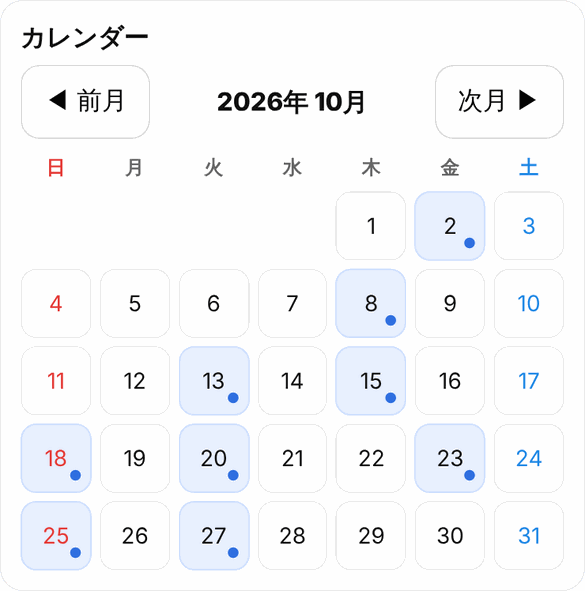
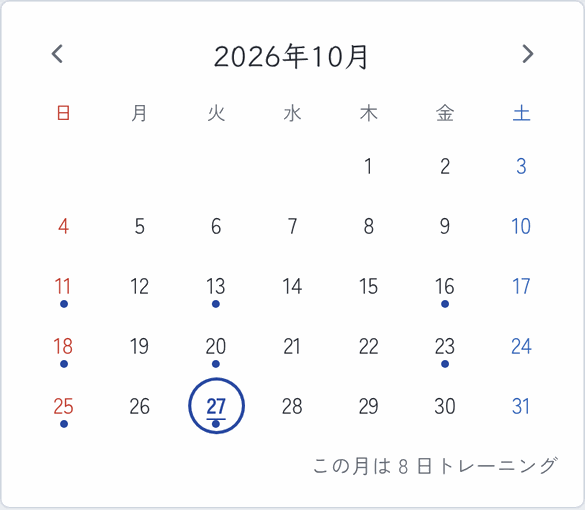
READMEを新しいデザインに合わせて更新し、スクリーンショットを撮り直し
Claude-Session: https://claude.ai/code/session_01LAmFCGEKoDBVA6vnKAuoa2

diff --git a/README.md b/README.md
@@ -1,48 +1,67 @@
-# Training Tracker
+# トレーニングノート
 
-筋トレの記録をつけて、日付やカレンダーから振り返れるWebアプリです。
-よくやるメニューを「プリセット」として登録しておけば、ボタン1つでまとめて記録できます。
+筋トレの記録を、**紙のトレーニングノート**のように1日1ページでつけられるWebアプリです。
+よくやる種目の組み合わせを「メニュー」として登録しておけば、ボタン1つでまとめて書き込めます。
 
-**公開URL：** [training-tracker-three.vercel.app](https://training-tracker-three.vercel.app)（ログイン不要ですぐ使えます）
+**公開URL：** [training-tracker-three.vercel.app](https://training-tracker-three.vercel.app)（ログイン不要。初めて開いたときは「見本の記録を入れる」で中身を試せます）
 
 <p>
-  <img src="docs/screenshots/pc-top.png" alt="トレーニング追加（PC）" width="64%">
-  <img src="docs/screenshots/sp-list.png" alt="トレーニング一覧（スマホ）" width="23%">
+  <img src="docs/screenshots/pc-page.png" alt="1日のページ（PC）" width="64%">
+  <img src="docs/screenshots/sp-page.png" alt="1日のページ（スマホ）" width="23%">
 </p>
 
-> スクリーンショットはサンプルデータで撮影しています。
+> スクリーンショットは見本の記録で撮影しています。
+
+---
+
+## デザインのコンセプト
+
+ジムでトレーニングを記録する人が使う、紙のノートを土台にしました。
+
+- **1日が1ページ**：罫線の上に記録が並び、ページの左には赤い余白線。ページの下が「書き込み欄」で、開いている日に記録を書き込みます
+- **手書き風の文字**：日付と記録は、鉛筆で書いたような書体（Klee One）で表示しています
+- **ボールペンの青**：ボタンや選んでいる日など、操作に関わるものだけを青にしています。カレンダーで表示中の日には、ペンで丸をつけたような印が付きます
+- **1日の合計**：ページの最後に、種目数・セット数・総重量（重さ × 回数 × セット）を書き添えます
+
+| 色 | 用途 |
+|---|---|
+| `#E9ECF0` | 背景（机） |
+| `#D6E2EF` | 罫線 |
+| `#E7A3A3` | 余白線 |
+| `#2747A0` ボールペンの青 | ボタン・選択中の日・合計 |
+| `#2A2D34` | 文字（鉛筆） |
+
+文字は、記録部分に **Klee One**、それ以外に **Zen Kaku Gothic New** を使っています（どちらもアプリに同梱）。
 
 ---
 
 ## 画面
 
-### トレーニング追加
-日付・種目・重さ・回数・セット数を選んで記録します。種目と重さは一覧から選べて、一覧にないものは自由入力もできます（入力した種目・重さは次回から一覧に出ます）。
+### 1日のページ
+◀▶で前後の日へ、「今日へ」で今日のページへ移動します。ページの下の欄から種目・重さ・回数・セットを書き込みます。スマホでは1つの記録を2行（種目／重さ・回数）で書きます。
 
 | PC | スマホ |
 |---|---|
-| <img src="docs/screenshots/pc-top.png" alt="トレーニング追加（PC）" width="520"> | <img src="docs/screenshots/sp-top.png" alt="トレーニング追加（スマホ）" width="220"> |
+| <img src="docs/screenshots/pc-page.png" alt="1日のページ（PC）" width="520"> | <img src="docs/screenshots/sp-page.png" alt="1日のページ（スマホ）" width="220"> |
 
-### トレーニング一覧
-記録を日付ごとにまとめて新しい順に表示します。日付を選ぶとその日の記録だけに絞り込めます。
+### 書き込み欄（スマホ）
+種目と重さは一覧から選べて、一覧にない種目・重さは自由に入力できます（入力したものは次から一覧に出ます）。メニューを選べば、登録した種目をまとめて書き込めます。
 
-| PC | スマホ |
-|---|---|
-| <img src="docs/screenshots/pc-list.png" alt="トレーニング一覧（PC）" width="520"> | <img src="docs/screenshots/sp-list.png" alt="トレーニング一覧（スマホ）" width="220"> |
+<img src="docs/screenshots/sp-write.png" alt="書き込み欄（スマホ）" width="280">
 
 ### カレンダー
-記録がある日に印が付きます。日付をタップするとその日の記録を表示します。
+記録がある日に点が付き、日付を押すとその日のページを開きます。その月に何日トレーニングしたかも表示します。
 
 | PC | スマホ |
 |---|---|
-| <img src="docs/screenshots/pc-calendar.png" alt="カレンダー（PC）" width="520"> | <img src="docs/screenshots/sp-calendar.png" alt="カレンダー（スマホ）" width="220"> |
+| <img src="docs/screenshots/pc-calendar.png" alt="カレンダー（PC）" width="320"> | <img src="docs/screenshots/sp-calendar.png" alt="カレンダー（スマホ）" width="220"> |
 
-### プリセット管理
+### メニュー
 「胸の日」「脚の日」のように、種目・重さ・回数・セット数の組み合わせを登録しておけます。
 
 | PC | スマホ |
 |---|---|
-| <img src="docs/screenshots/pc-preset.png" alt="プリセット管理（PC）" width="520"> | <img src="docs/screenshots/sp-preset.png" alt="プリセット管理（スマホ）" width="220"> |
+| <img src="docs/screenshots/pc-menu.png" alt="メニュー（PC）" width="520"> | <img src="docs/screenshots/sp-menu.png" alt="メニュー（スマホ）" width="220"> |
 
 ---
 
@@ -53,6 +72,8 @@
 | フロントエンド | React 19, Vite 7 |
 | 言語 | JavaScript |
 | スタイル | プレーンCSS（CSS変数・メディアクエリでレスポンシブ対応） |
+| アイコン | lucide-react |
+| フォント | Klee One、Zen Kaku Gothic New（@fontsource で同梱） |
 | データ保存 | localStorage（ブラウザ内に保存） |
 | デプロイ | Vercel |
 
@@ -60,11 +81,12 @@
 
 ## 主な機能
 
-- トレーニングの追加・削除
+- 1日1ページでの記録（追加・削除）と、1日の合計（種目数・セット数・総重量）
+- 前後の日・今日・カレンダー・最近の記録の目次から、見たい日のページへ移動
 - 種目・重さの候補を自動で増やす（新しく入力したものは次回から選択肢に出る）
-- 日付ごとにまとめた一覧表示・日付での絞り込み
-- カレンダー表示（月切り替え、記録がある日に印）
-- プリセットの作成・編集・削除と、プリセットからの一括登録
+- カレンダー（記録がある日に印、月のトレーニング日数）
+- メニューの作成・編集・削除と、メニューからのまとめ書き込み
+- 初めて開いたときに見本の記録を入れられるボタン
 - データの自動保存（localStorage）
 - スマホ対応のレスポンシブUI
 
@@ -73,38 +95,48 @@
 ## 設計のポイント
 
 ### コンポーネント分割
-画面を役割ごとのコンポーネントに分け、状態（state）と処理は `App.jsx` にまとめて props で渡しています。
+画面を役割ごとのコンポーネントに分け、保存するデータと処理は `App.jsx` にまとめて props で渡しています。
 
 ```
 src/
-├── App.jsx                     # 状態と処理をまとめる親コンポーネント
+├── App.jsx                     # データと処理をまとめる親コンポーネント
 ├── components/
-│   ├── Header.jsx              # タイトル
-│   ├── DateFilter.jsx          # 日付での絞り込み
-│   ├── TrainingForm.jsx        # トレーニング追加フォーム
-│   ├── PresetManager.jsx       # プリセットの作成・編集
-│   ├── TrainingList.jsx        # 日付ごとの一覧
-│   └── Calendar.jsx            # 月カレンダー
-└── hooks/
-    └── useLocalStorage.js      # state と localStorage を同期するカスタムHook
+│   ├── DayPage.jsx             # 1日分のページ（記録と合計）
+│   ├── EntryForm.jsx           # ページ下の書き込み欄
+│   ├── MonthCalendar.jsx       # 月のカレンダー
+│   ├── RecentDays.jsx          # 最近の記録（目次）
+│   └── PresetManager.jsx       # メニューの作成・編集
+├── hooks/
+│   └── useLocalStorage.js      # state と localStorage を同期するカスタムHook
+└── lib/
+    ├── dates.js                # 日付の計算・表示（ローカル時刻）
+    └── sample.js               # 見本の記録
 ```
 
 ### カスタムHook `useLocalStorage`
-`useState` と同じ使い方で、値が変わるたびに自動で localStorage に保存されるHookを作りました。保存データが壊れていたり容量が足りなかったりしても、アプリが落ちないように try/catch で守っています。
+`useState` と同じ使い方で、値が変わるたびに自動で localStorage に保存されるHookを作りました。保存データが壊れていたり容量が足りなかったりしても、アプリが落ちないように try/catch で守っています。以前のバージョンと同じ保存キーを使っているので、これまでの記録はそのまま読み込めます。
 
 ```js
 // useState と同じ感覚で使える
 const [trainings, setTrainings] = useLocalStorage("trainings", []);
 ```
 
+### 罫線と記録の高さをそろえる
+罫線は CSS の `linear-gradient` で 40px ごとに引き、記録の1行も同じ 40px にしています。スマホで1つの記録を2行にするときも 80px（罫線2本分）にして、文字が罫線からずれないようにしています。
+
 ### useMemo による派生データの計算
-「日付ごとのグループ」「カレンダーの各日に記録があるか」など、記録一覧から計算する値は `useMemo` でまとめ、記録や選択日が変わったときだけ計算し直すようにしています。
+「日付ごとにまとめた記録」「記録がある日の一覧」は `useMemo` でまとめ、記録が変わったときだけ計算し直すようにしています。
 
 ### カレンダーの曜日合わせ
 月の1日が何曜日かを求めて先頭に空きマスを入れ、日付が正しい曜日の列に並ぶようにしています。土日の色分けも同じ計算から決めています。
 
-### スマホ向けの調整
-768px以下では、フォームを1列に並べたり、一覧の削除ボタンを下に回したり、プリセット編集を2行に分けたりして、指で操作しやすくしています。
+### 入力エラーは画面の中で伝える
+`alert()` は使わず、書き込み欄やメニュー編集の下に「何が足りないか」をメッセージで表示します。
+
+### アクセシビリティ
+- アイコンだけのボタン（◀▶・×など）には `aria-label` を付けています
+- カレンダーの日付ボタンは「10月27日（3種目）」のように読み上げられます
+- キーボード操作時はフォーカスの枠を表示します
 
 ---
 
